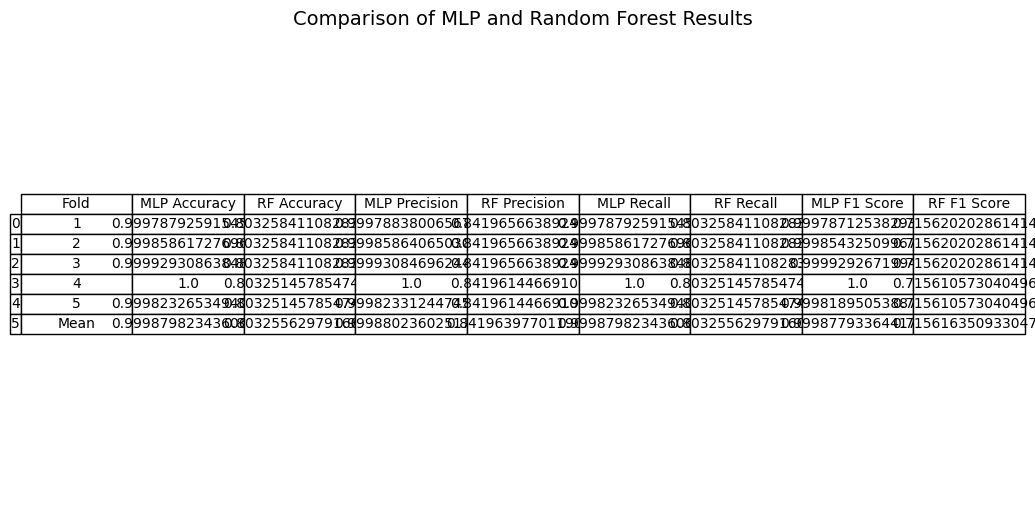
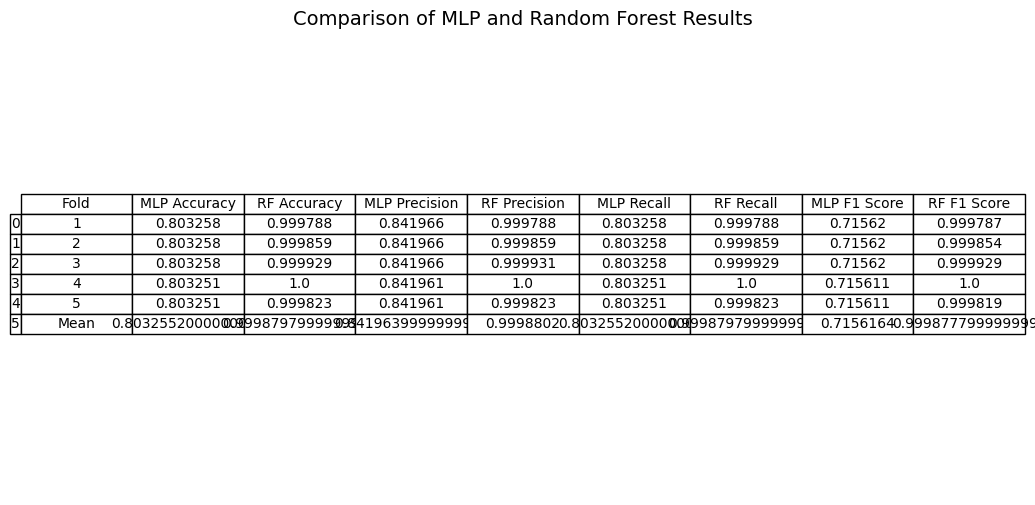
create comparison table

Changed region(s): [[0.0928, 0.4158, 1.0, 0.6535]]

diff --git a/results_and_plots/plot.py b/results_and_plots/plot.py
@@ -5,135 +5,165 @@ import scipy.stats as stats
 import math
 import seaborn as sns
 from pandas.plotting import table
-
-
-# from config import OUTPUT_FOLDER_PATH, TINYML_OUTPUT_FOLDER_PATH
-OUTPUT_FOLDER_PATH = r"D:\Projects\ev_charging_station\model_outputs"
-TINYML_OUTPUT_FOLDER_PATH = r"D:\Projects\ev_charging_station\tiny_ml_model_outputs"
-
-def plot_histogram(data, columnName, unit, title):
-    # Load the data
-    # data = pd.read_csv(dataName + '.csv')
-    n_samples = len(data)
-
-    # Define the font settings
-    calibri_font = {'family': 'Calibri',
-                    'color': 'black',
-                    'weight': 'normal',
-                    'size': 20,
-                    }
-    # Plot the histogram of the data
-    k = int(1 + 3.322 * math.log((data.shape[0]), 2))
-    data[columnName].hist(bins=k, density=False, alpha=1, edgecolor='black')  # label='Histogram'
-    plt.xlabel(f'{columnName} ({unit})', fontsize=50, labelpad=15, fontdict=calibri_font)
-    plt.ylabel('Density', fontsize=50, labelpad=15, fontdict=calibri_font)
-    plt.title(title, fontsize=50, pad=22, fontdict=calibri_font)
-
-    # Calculate the mean and standard deviation of the data
-    mu, std = data[columnName].mean(), data[columnName].std()
-
-    # Plot the normal curve
-    xmin, xmax = plt.xlim()
-    bin_width = (xmax - xmin) / k
-    x = np.linspace(xmin - 3 * std, xmax + 3 * std, 1000)
-    p = stats.norm.pdf(x, mu, std) * n_samples * bin_width
-    plt.plot(x, p, linewidth=3, color='#993d4d')  # label='Normal Distribution'
-
-    minumum = data.min().min()
-    maximum = data.max().max()
-
-    # Create custom legend labels
-    legend_labels = [
-        f'Min:{minumum:.2f}',
-        f'Max: {maximum:.2f}',
-        f'Mean: {mu:.2f}',
-        f'Std: {std:.2f}',
-        f'Number of Samples: {n_samples}',
-    ]
-
-    # Create a custom legend using dummy plot objects with no lines or markers
-    for label in legend_labels:
-        plt.plot([], [], ' ', label=label)
-
-    # Display the legend with specified font size
-    plt.legend(fontsize=35)
-
-    plt.xticks(fontsize=36, fontname="Calibri")
-    plt.yticks(fontsize=36, fontname="Calibri")
-
-    plt.rcParams['font.family'] = 'Calibri'
-    plt.show()
-
-    # alternatively you can directly save the figure as: plt.savefig(filename), then plt.close()
-
-
-# plot_histogram(pd.read_csv(OUTPUT_FOLDER_PATH+'/per_sample_memory.csv'), 'Memory' , 'KB', 'ML_MLP Memory Consumption')
-plot_histogram(pd.read_csv(TINYML_OUTPUT_FOLDER_PATH+'/per_sample_memory.csv'), 'Memory', 'Bytes', 'TinyML_MLP Memory Consumption')
-
-plot_histogram(pd.read_csv(OUTPUT_FOLDER_PATH+'/prediction_times.csv'), 'Time', 'ms', 'ML_MLP Inference Time')
-plot_histogram(pd.read_csv(TINYML_OUTPUT_FOLDER_PATH+'/prediction_times.csv'), 'Time','\u03BC' + 's', 'TinyML_MLP Inference Time')
-
-
-
-
+#
+#
+# # from config import OUTPUT_FOLDER_PATH, TINYML_OUTPUT_FOLDER_PATH
+# OUTPUT_FOLDER_PATH = r"D:\Projects\ev_charging_station\model_outputs"
+# TINYML_OUTPUT_FOLDER_PATH = r"D:\Projects\ev_charging_station\tiny_ml_model_outputs"
+#
+# def plot_histogram(data, columnName, unit, title):
+#     # Load the data
+#     # data = pd.read_csv(dataName + '.csv')
+#     n_samples = len(data)
+#
+#     # Define the font settings
+#     calibri_font = {'family': 'Calibri',
+#                     'color': 'black',
+#                     'weight': 'normal',
+#                     'size': 20,
+#                     }
+#     # Plot the histogram of the data
+#     k = int(1 + 3.322 * math.log((data.shape[0]), 2))
+#     data[columnName].hist(bins=k, density=False, alpha=1, edgecolor='black')  # label='Histogram'
+#     plt.xlabel(f'{columnName} ({unit})', fontsize=50, labelpad=15, fontdict=calibri_font)
+#     plt.ylabel('Density', fontsize=50, labelpad=15, fontdict=calibri_font)
+#     plt.title(title, fontsize=50, pad=22, fontdict=calibri_font)
+#
+#     # Calculate the mean and standard deviation of the data
+#     mu, std = data[columnName].mean(), data[columnName].std()
+#
+#     # Plot the normal curve
+#     xmin, xmax = plt.xlim()
+#     bin_width = (xmax - xmin) / k
+#     x = np.linspace(xmin - 3 * std, xmax + 3 * std, 1000)
+#     p = stats.norm.pdf(x, mu, std) * n_samples * bin_width
+#     plt.plot(x, p, linewidth=3, color='#993d4d')  # label='Normal Distribution'
+#
+#     minumum = data.min().min()
+#     maximum = data.max().max()
+#
+#     # Create custom legend labels
+#     legend_labels = [
+#         f'Min:{minumum:.2f}',
+#         f'Max: {maximum:.2f}',
+#         f'Mean: {mu:.2f}',
+#         f'Std: {std:.2f}',
+#         f'Number of Samples: {n_samples}',
+#     ]
+#
+#     # Create a custom legend using dummy plot objects with no lines or markers
+#     for label in legend_labels:
+#         plt.plot([], [], ' ', label=label)
+#
+#     # Display the legend with specified font size
+#     plt.legend(fontsize=35)
+#
+#     plt.xticks(fontsize=36, fontname="Calibri")
+#     plt.yticks(fontsize=36, fontname="Calibri")
+#
+#     plt.rcParams['font.family'] = 'Calibri'
+#     plt.show()
+#
+#     # alternatively you can directly save the figure as: plt.savefig(filename), then plt.close()
+#
+#
+# # plot_histogram(pd.read_csv(OUTPUT_FOLDER_PATH+'/per_sample_memory.csv'), 'Memory' , 'KB', 'ML_MLP Memory Consumption')
+# plot_histogram(pd.read_csv(TINYML_OUTPUT_FOLDER_PATH+'/per_sample_memory.csv'), 'Memory', 'Bytes', 'TinyML_MLP Memory Consumption')
+#
+# plot_histogram(pd.read_csv(OUTPUT_FOLDER_PATH+'/prediction_times.csv'), 'Time', 'ms', 'ML_MLP Inference Time')
+# plot_histogram(pd.read_csv(TINYML_OUTPUT_FOLDER_PATH+'/prediction_times.csv'), 'Time','\u03BC' + 's', 'TinyML_MLP Inference Time')
+#
+#
+#
+#
 
 
 # Load the CSV results for both models
-mlp_results = pd.read_csv('D:\Projects\ev_charging_station\model_outputs\k_fold_results.csv')
-rf_results = pd.read_csv('D:\Projects\ev_charging_station\model_outputs\k_fold_results_mlp.csv')
+mlp_results = pd.read_csv('D:\Projects\ev_charging_station\model_outputs\k_fold_results_mlp.csv')
+rf_results = pd.read_csv('D:\Projects\ev_charging_station\model_outputs\k_fold_results.csv')
 # Create a comparative DataFrame
 comparison_df = pd.DataFrame({
-    'Fold': mlp_results['Fold'],
-    'MLP Accuracy': mlp_results['Accuracy'],
-    'RF Accuracy': rf_results['Accuracy'],
-    'MLP Precision': mlp_results['Precision'],
-    'RF Precision': rf_results['Precision'],
-    'MLP Recall': mlp_results['Recall'],
-    'RF Recall': rf_results['Recall'],
-    'MLP F1 Score': mlp_results['F1 Score'],
-    'RF F1 Score': rf_results['F1 Score']
+    'Fold': mlp_results['Fold'].round(6),
+    'MLP Accuracy': mlp_results['Accuracy'].round(6),
+    'RF Accuracy': rf_results['Accuracy'].round(6),
+    'MLP Precision': mlp_results['Precision'].round(6),
+    'RF Precision': rf_results['Precision'].round(6),
+    'MLP Recall': mlp_results['Recall'].round(6),
+    'RF Recall': rf_results['Recall'].round(6),
+    'MLP F1 Score': mlp_results['F1 Score'].round(6),
+    'RF F1 Score': rf_results['F1 Score'].round(6)
 })
 
 # For making comparisons images
 
-# # Define metrics for comparison
-# metrics = ['Accuracy', 'Precision', 'Recall', 'F1 Score']
-# mlp_columns = [f'MLP {metric}' for metric in metrics]
-# rf_columns = [f'RF {metric}' for metric in metrics]
-#
-# # Create subplots
-# fig, axes = plt.subplots(2, 2, figsize=(14, 10))
-# axes = axes.ravel()  # Flatten axes array for easy iteration
-#
-# for i, metric in enumerate(metrics):
-#     sns.lineplot(x='Fold', y=f'MLP {metric}', data=comparison_df, ax=axes[i], label='MLP', marker='o')
-#     sns.lineplot(x='Fold', y=f'RF {metric}', data=comparison_df, ax=axes[i], label='Random Forest', marker='o')
-#     axes[i].set_title(f'{metric} Comparison')
-#     axes[i].set_ylabel(metric)
-#     axes[i].set_xlabel('Fold')
-#     axes[i].legend()
-#     axes[i].grid(True)
-#
-# # Adjust layout and save the figure
-# plt.tight_layout()
-# plt.savefig('comparison_metrics.png')
-# plt.show()
+# Define metrics for comparison
+metrics = ['Accuracy', 'Precision', 'Recall', 'F1 Score']
+mlp_columns = [f'MLP {metric}' for metric in metrics]
+rf_columns = [f'RF {metric}' for metric in metrics]
+
+# Create subplots
+fig, axes = plt.subplots(2, 2, figsize=(14, 10))
+axes = axes.ravel()  # Flatten axes array for easy iteration
+
+for i, metric in enumerate(metrics):
+    sns.lineplot(x='Fold', y=f'MLP {metric}', data=comparison_df, ax=axes[i], label='MLP', marker='o')
+    sns.lineplot(x='Fold', y=f'RF {metric}', data=comparison_df, ax=axes[i], label='Random Forest', marker='o')
+    axes[i].set_title(f'{metric} Comparison')
+    axes[i].set_ylabel(metric)
+    axes[i].set_xlabel('Fold')
+    axes[i].legend()
+    axes[i].grid(True)
+
+# Adjust layout and save the figure
+plt.tight_layout()
+plt.savefig('comparison_metrics.png')
+plt.show()
 
 
-# For making a comparison table
-mean_values = comparison_df.mean().to_frame().T
-mean_values['Fold'] = 'Mean'
-comparison_df = pd.concat([comparison_df, mean_values], ignore_index=True)
 
-# Create a figure and hide axes
-fig, ax = plt.subplots(figsize=(12, 6))
-ax.axis('off')  # Hide the axes
+# create different comparison tables
+accuracy_df = pd.DataFrame({
+    'Fold': mlp_results['Fold'],
+    'MLP Accuracy': mlp_results['Accuracy'].round(6),
+    'RF Accuracy': rf_results['Accuracy'].round(6)
+})
 
-# Create a table
-tbl = table(ax, comparison_df, loc='center', cellLoc='center', colWidths=[0.1] * len(comparison_df.columns))
-tbl.auto_set_font_size(False) # Activate auto font size
-tbl.set_fontsize(10)
-tbl.scale(1.2, 1.2)  # Scale table
-plt.title('Comparison of MLP and Random Forest Results', fontsize=14)
-plt.savefig('comparison_results_table.png', bbox_inches='tight')
+precision_df = pd.DataFrame({
+    'Fold': mlp_results['Fold'],
+    'MLP Precision': mlp_results['Precision'].round(6),
+    'RF Precision': rf_results['Precision'].round(6)
+})
+
+recall_df = pd.DataFrame({
+    'Fold': mlp_results['Fold'],
+    'MLP Recall': mlp_results['Recall'].round(6),
+    'RF Recall': rf_results['Recall'].round(6)
+})
+
+f1_df = pd.DataFrame({
+    'Fold': mlp_results['Fold'],
+    'MLP F1 Score': mlp_results['F1 Score'].round(6),
+    'RF F1 Score': rf_results['F1 Score'].round(6)
+})
+
+# Create a figure with subplots for each metric
+fig, axs = plt.subplots(2, 2, figsize=(14, 10))
+axs = axs.flatten()  # Flatten the 2D array to 1D
+
+# List of DataFrames and titles for each subplot
+dfs = [accuracy_df, precision_df, recall_df, f1_df]
+titles = ['Accuracy Comparison', 'Precision Comparison', 'Recall Comparison', 'F1 Score Comparison']
+
+# Create tables in each subplot
+for ax, df, title in zip(axs, dfs, titles):
+    ax.axis('off')  # Hide the axes
+    tbl = table(ax, df, loc='center', cellLoc='center', colWidths=[0.1] * len(df.columns))
+    tbl.auto_set_font_size(False)  # Activate auto font size
+    tbl.set_fontsize(10)
+    tbl.scale(1.2, 1.2)  # Scale table
+    ax.set_title(title, fontsize=14)
+
+# Adjust layout and save the figure
+plt.tight_layout()
+plt.savefig('comparison_metrics_tables.png', bbox_inches='tight')
 plt.show()
